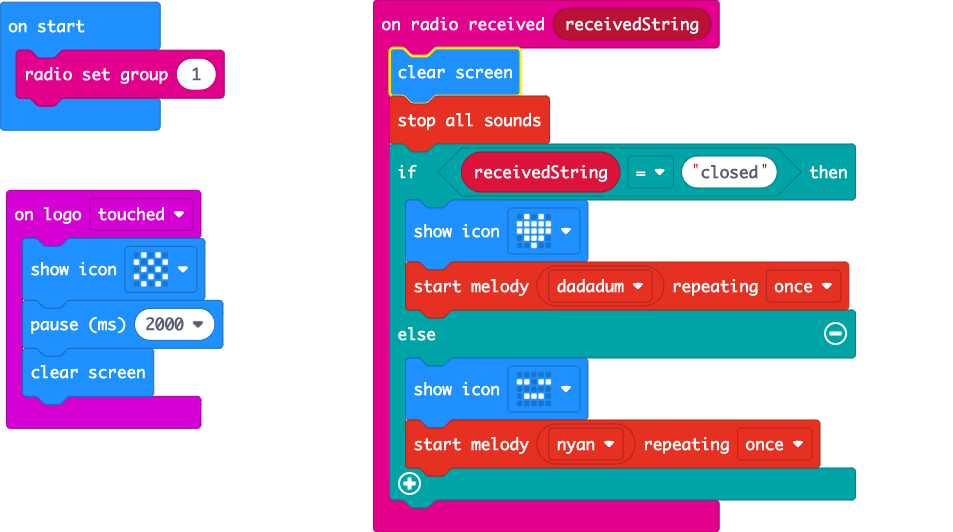
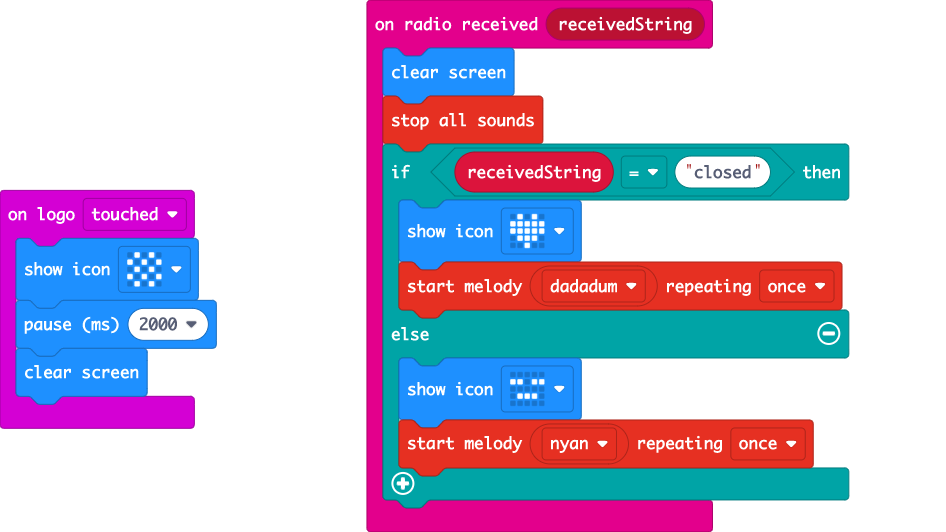
Update main.blocks, main.ts

diff --git a/main.ts b/main.ts
@@ -14,4 +14,3 @@ input.onLogoEvent(TouchButtonEvent.Touched, function () {
     basic.pause(2000)
     basic.clearScreen()
 })
-radio.setGroup(1)
